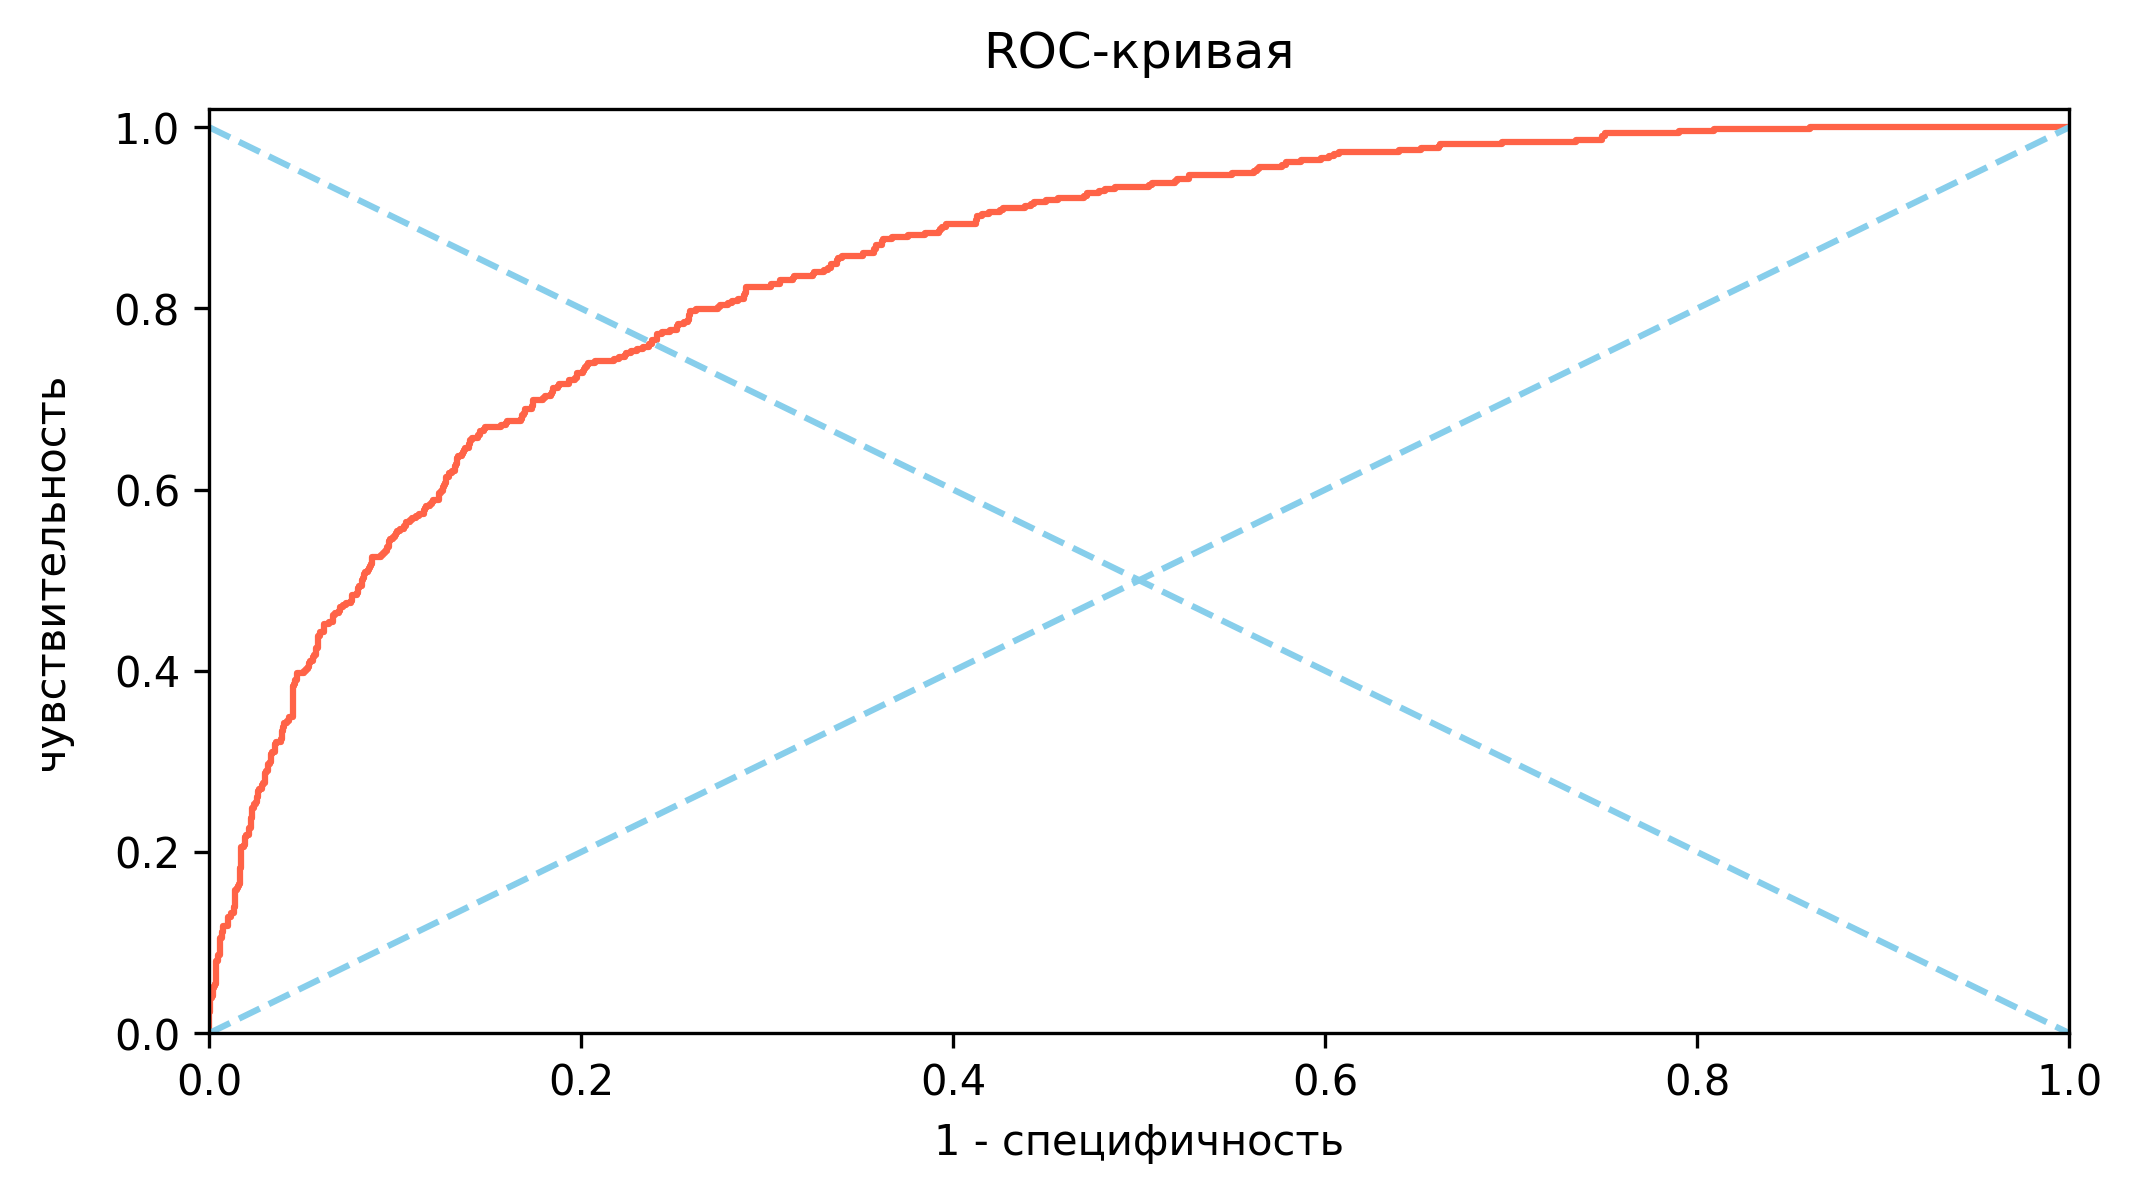
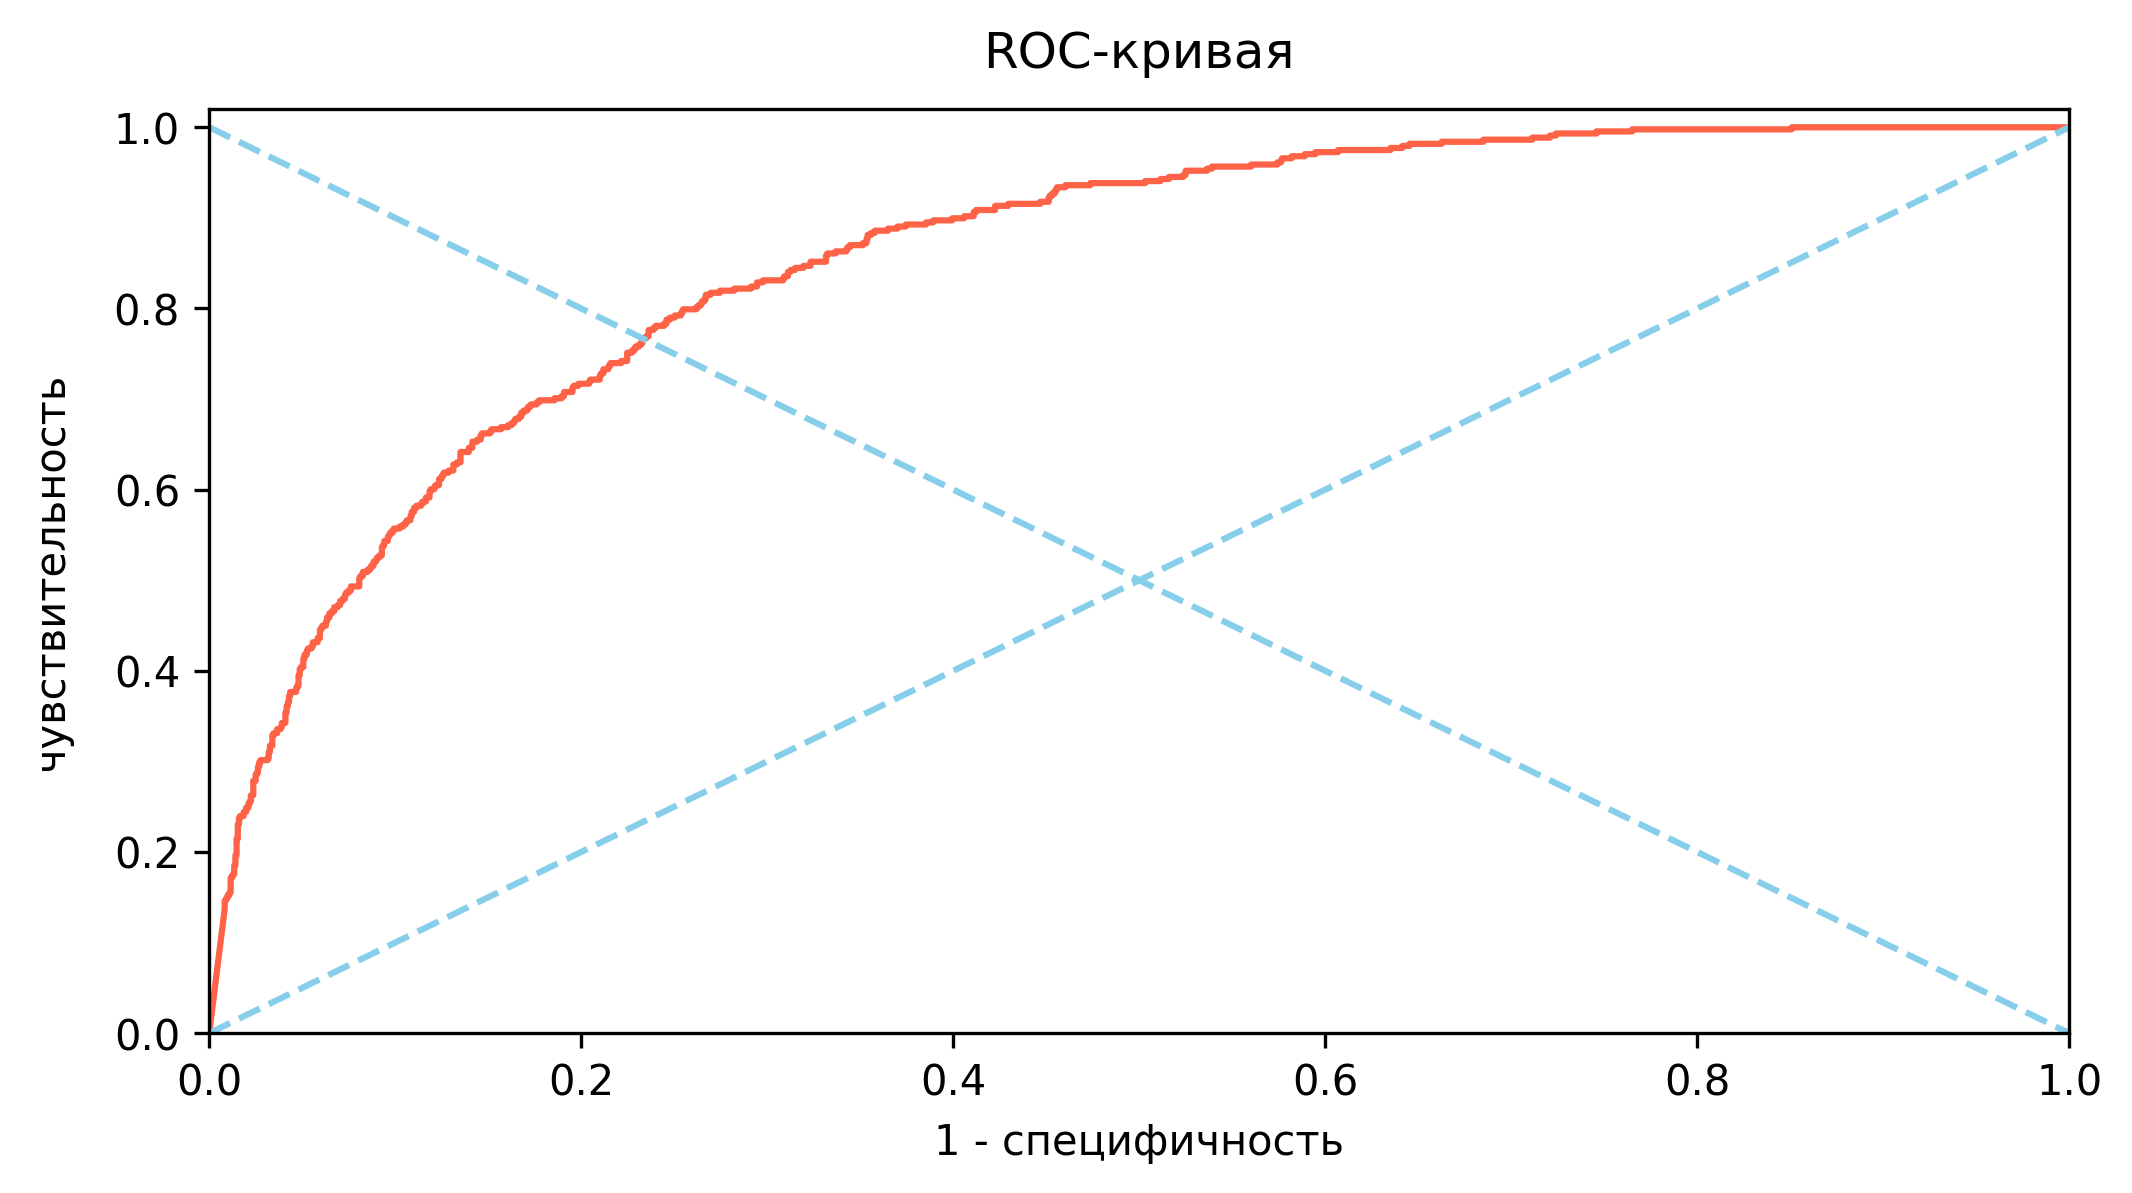
add callbacks

diff --git a/main.py b/main.py
@@ -11,8 +11,9 @@ from keras.api.layers import Input, Dense, Dropout
 from keras.api.models import Model
 from keras.api.utils import set_random_seed
 from keras.api.models import load_model
+from keras.api.callbacks import EarlyStopping, ReduceLROnPlateau
 
-train_model_mode = False  # обучаем модель или загружаем уже обученную
+train_model_mode = True  # обучаем модель или загружаем уже обученную
 # Установим seed для воспроизводимости результатов:
 seed = 42
 np.random.seed(seed)
@@ -84,7 +85,7 @@ for i in range(train_size, data_size):
 # Создадим простую модель нейронной сети:
 input = Input(name="input_1", shape=(12,))
 x = Dense(name="dense_1", units=5, activation="relu")(input)
-x = Dropout(name="dropout_1", rate=0.1)(x)
+# x = Dropout(name="dropout_1", rate=0.1)(x)
 output = Dense(name="dense_2", units=1, activation="sigmoid")(x)
 
 model = Model(inputs=input, outputs=output)
@@ -95,6 +96,27 @@ m = keras.metrics.BinaryAccuracy()
 
 model.compile(optimizer=opt, loss=l, metrics=[m])
 model.summary()
+
+early_stopping = EarlyStopping(
+    monitor="val_loss",
+    min_delta=0,
+    patience=10,
+    verbose=1,
+    mode="auto",
+    restore_best_weights=True,
+    start_from_epoch=0,
+)
+
+reduce_lr = ReduceLROnPlateau(
+    monitor="val_loss",
+    factor=0.1,
+    patience=5,
+    verbose=1,
+    mode="auto",
+    min_delta=0.0001,
+    cooldown=0,
+    min_lr=1e-6,
+)
 
 if train_model_mode:
     # Обучим модель:
@@ -107,9 +129,10 @@ if train_model_mode:
         validation_split=0.2,
         shuffle=True,
         class_weight=None,
+        callbacks=[early_stopping, reduce_lr],
     )
     # Сохраним ее в файл:
-    model.save("saved_models/ferritin-10000.keras")
+    model.save("saved_models/ferritin-10000-2.keras")
     # Визуализируем кривые обучения:
     history_data = history.history
     train_loss = history_data["loss"]
@@ -149,9 +172,11 @@ if train_model_mode:
 
     # Сохраняем график:
     plt.savefig(
-        "images/history_100-epochs_ferritin-10000.png", dpi=300, bbox_inches="tight"
+        "train_images/history_100-epochs_ferritin-10000-2.png",
+        dpi=300,
+        # bbox_inches="tight",
     )
-    plt.show()
+    # plt.show()
 else:
     # Загрузим уже обученную модель:
     model = load_model("saved_models/ferritin-10000.keras")
@@ -248,5 +273,5 @@ plt.ylim([0.0, 1.02])
 plt.plot(fpr, tpr, color="tomato")
 plt.plot([0, 1], [0, 1], color="skyblue", linestyle="--")
 plt.plot([0, 1], [1, 0], color="skyblue", linestyle="--")
-# plt.savefig("images/roc_curve-ferritin-10000.png", dpi=300, bbox_inches="tight")
+plt.savefig("train_images/roc_curve-ferritin-10000-2.png", dpi=300, bbox_inches="tight")
 # plt.show()
